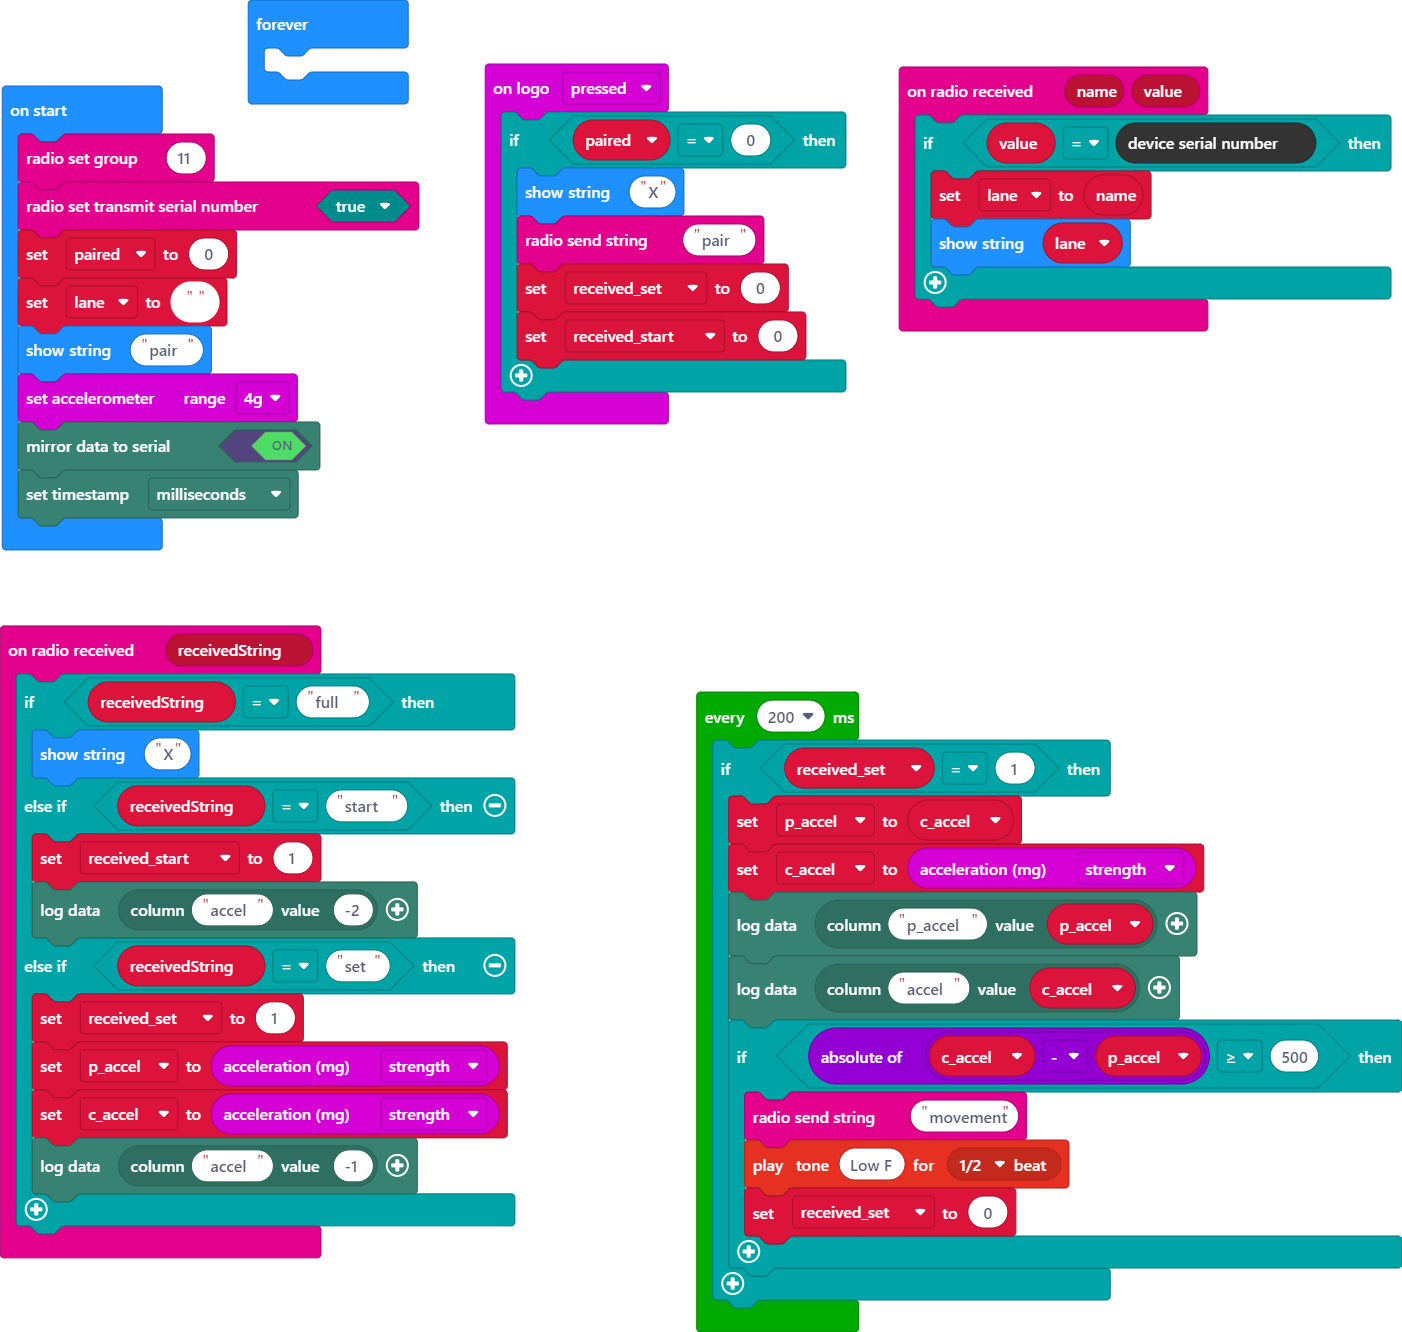
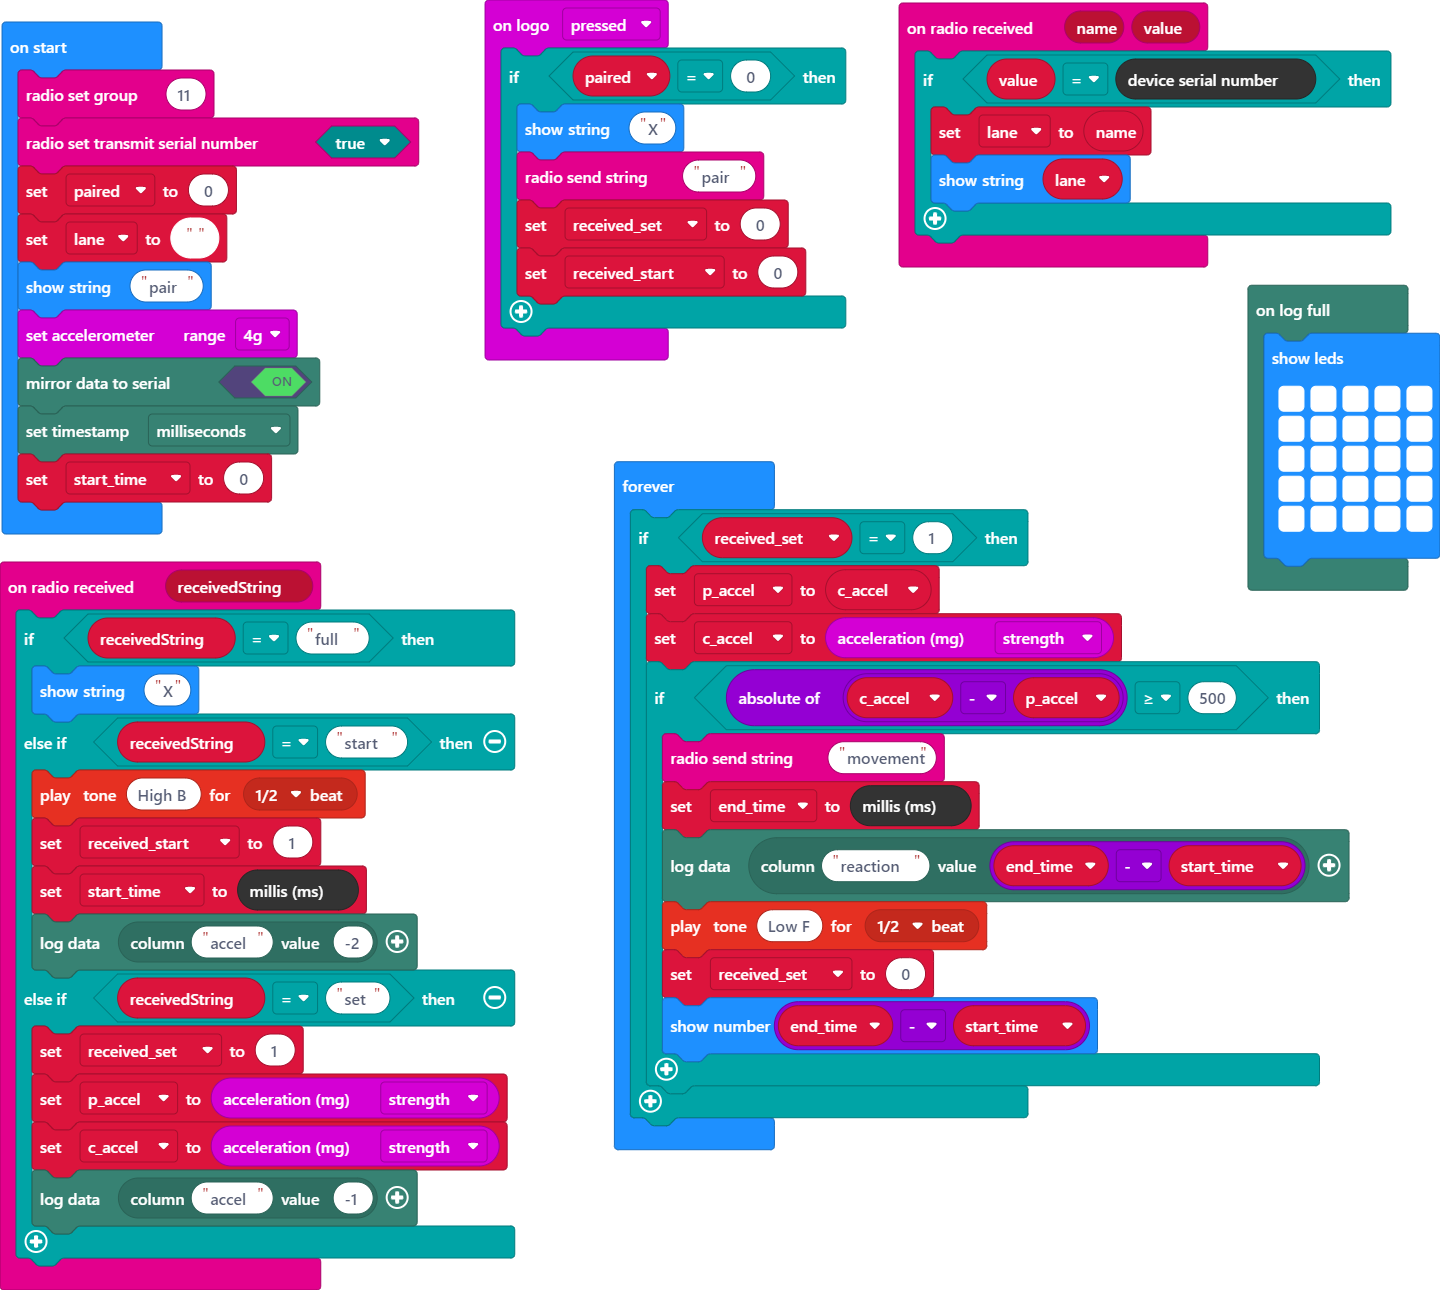
Update main.blocks, main.ts

diff --git a/main.ts b/main.ts
@@ -1,8 +1,19 @@
+datalogger.onLogFull(function () {
+    basic.showLeds(`
+        # # # # #
+        # # # # #
+        # # # # #
+        # # # # #
+        # # # # #
+        `)
+})
 radio.onReceivedString(function (receivedString) {
     if (receivedString == "full") {
         basic.showString("X")
     } else if (receivedString == "start") {
+        music.playTone(988, music.beat(BeatFraction.Half))
         received_start = 1
+        start_time = control.millis()
         datalogger.log(datalogger.createCV("accel", -2))
     } else if (receivedString == "set") {
         received_set = 1
@@ -25,10 +36,12 @@ input.onLogoEvent(TouchButtonEvent.Pressed, function () {
         received_start = 0
     }
 })
+let end_time = 0
 let c_accel = 0
 let p_accel = 0
 let received_set = 0
 let received_start = 0
+let start_time = 0
 let lane = ""
 let paired = 0
 radio.setGroup(11)
@@ -39,19 +52,18 @@ basic.showString("pair")
 input.setAccelerometerRange(AcceleratorRange.FourG)
 datalogger.mirrorToSerial(true)
 datalogger.includeTimestamp(FlashLogTimeStampFormat.Milliseconds)
+start_time = 0
 basic.forever(function () {
-	
-})
-loops.everyInterval(200, function () {
     if (received_set == 1) {
         p_accel = c_accel
         c_accel = input.acceleration(Dimension.Strength)
-        datalogger.log(datalogger.createCV("p_accel", p_accel))
-        datalogger.log(datalogger.createCV("accel", c_accel))
         if (Math.abs(c_accel - p_accel) >= 500) {
             radio.sendString("movement")
+            end_time = control.millis()
+            datalogger.log(datalogger.createCV("reaction", end_time - start_time))
             music.playTone(175, music.beat(BeatFraction.Half))
             received_set = 0
+            basic.showNumber(end_time - start_time)
         }
     }
 })
